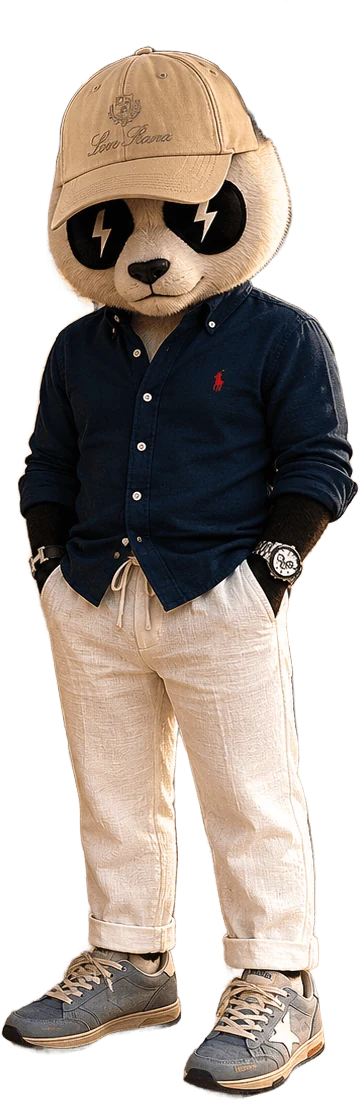
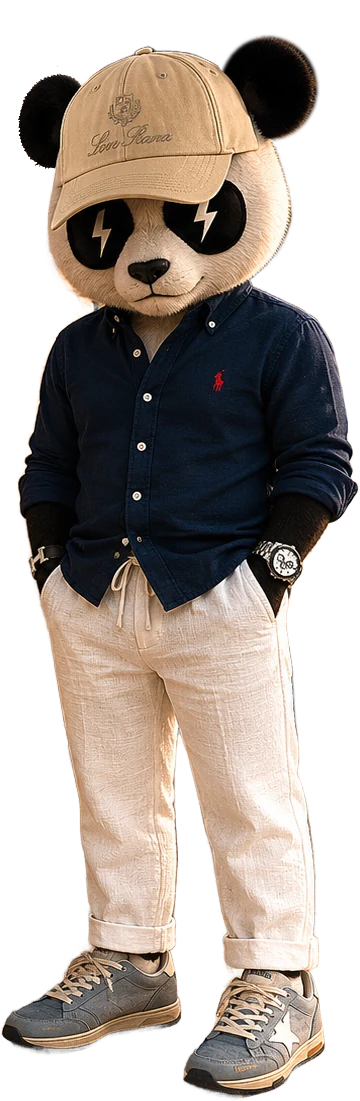
Panda de l'accueil : oreilles remises (le détourage les avait enlevées)
Claude-Session: https://claude.ai/code/session_01RSUvnDZM6UFfaEHGE1nxFs

Changed region(s): [[0.6111, 0.0309, 0.8861, 0.1544], [0.0306, 0.0618, 0.2139, 0.1544]]

diff --git a/assets/style.css b/assets/style.css
@@ -240,7 +240,7 @@ body.home #nav-tuto { display: none; }
 .hero-pic { position: relative; align-self: stretch; width: clamp(120px, 26vw, 250px); display: grid; align-items: end; justify-items: center; }
 .hero-sun { position: absolute; left: 50%; top: 18%; width: 92%; aspect-ratio: 1; transform: translateX(-50%); border-radius: 50%;
   background: radial-gradient(circle at 50% 45%, rgba(255, 236, 190, .95), rgba(240, 180, 92, .75) 45%, rgba(196, 103, 58, .0) 72%); filter: blur(2px); }
-.hero-pic img { position: relative; width: 100%; height: auto; max-height: 330px; object-fit: contain; object-position: bottom; margin-top: -40px;
+.hero-pic img { position: relative; width: 100%; height: auto; max-height: 330px; object-fit: contain; object-position: bottom; margin-top: -14px;
   filter: drop-shadow(0 18px 18px rgba(60, 35, 15, .35)); animation: pandaIn .9s var(--ease) both; transform-origin: bottom center; }
 @keyframes pandaIn { from { opacity: 0; transform: translateY(14px) scale(.97); } to { opacity: 1; transform: none; } }
 .help { display: grid; gap: 10px; }
@@ -280,7 +280,7 @@ body.home #nav-tuto { display: none; }
   .hero-title { font-size: 34px; }
   .hero-lead { font-size: 13.5px; }
   .hero-pic { width: 128px; }
-  .hero-pic img { max-height: 250px; margin-top: -24px; }
+  .hero-pic img { max-height: 250px; margin-top: -6px; }
   .help-tile { padding: 12px 10px 14px; border-radius: 20px; }
   .help-tile b { font-size: 13.5px; margin-top: 6px; }
   .help-tile small { font-size: 13px; }

diff --git a/index.html b/index.html
@@ -23,7 +23,7 @@
 <meta name="apple-mobile-web-app-capable" content="yes">
 <meta name="mobile-web-app-capable" content="yes">
 <meta name="apple-mobile-web-app-status-bar-style" content="default">
-<link rel="preload" as="image" href="assets/img/panda-hero.webp">
+<link rel="preload" as="image" href="assets/img/panda-hero.webp?v=2">
 <link rel="preconnect" href="https://fonts.googleapis.com">
 <link rel="preconnect" href="https://fonts.gstatic.com" crossorigin>
 <link rel="stylesheet" href="https://fonts.googleapis.com/css2?family=Bricolage+Grotesque:opsz,wght@12..96,500;12..96,700&family=Instrument+Sans:wght@400;500;600&family=Jost:wght@400;500;600&family=Instrument+Serif:ital@0;1&display=swap">

diff --git a/assets/app.js b/assets/app.js
@@ -424,7 +424,7 @@
             </div>
             <div class="hero-pic" aria-hidden="true">
               <span class="hero-sun"></span>
-              <img src="assets/img/panda-hero.webp" alt="" fetchpriority="high">
+              <img src="assets/img/panda-hero.webp?v=2" alt="" fetchpriority="high">
             </div>
           </div>
           <div class="help">
